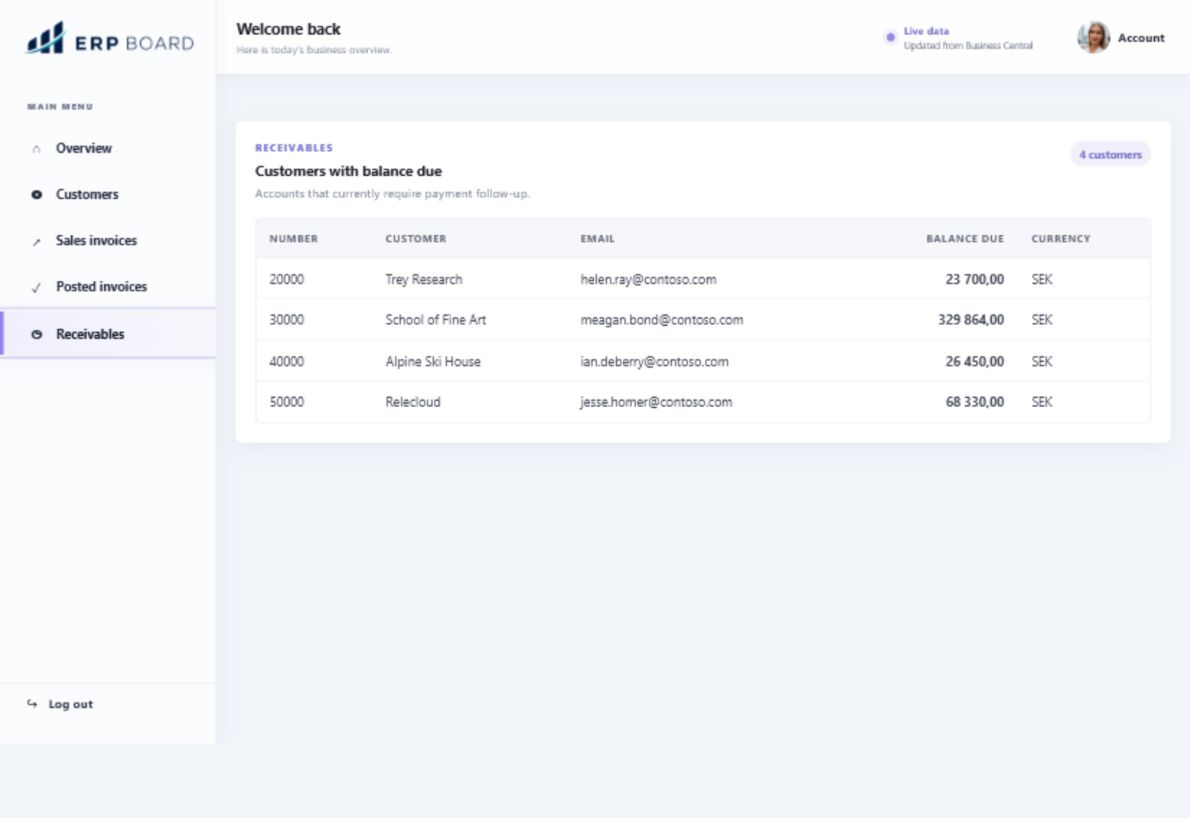
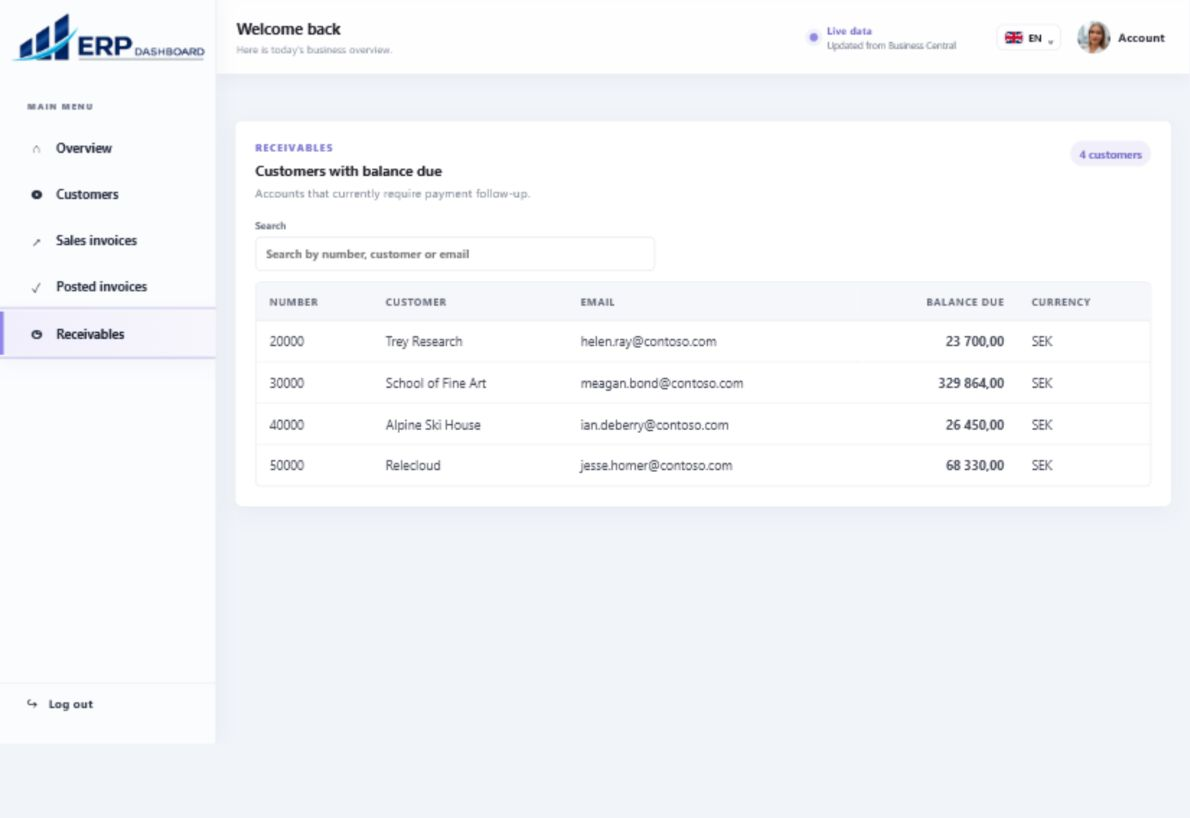
Enhance dashboard details and refresh screenshots

diff --git a/frontend/src/components/KpiSections.jsx b/frontend/src/components/KpiSections.jsx
@@ -17,6 +17,21 @@ function KpiCard({ label, value, tone = 'default', onClick, expanded }) {
 function DataBreakdown({ title, description, records, error, onRetry, type }) {
   const { t } = useLanguage()
   const breakdownRef = useRef(null)
+  const [searchTerm, setSearchTerm] = useState('')
+  const [recordFilter, setRecordFilter] = useState('all')
+
+  const normalizedSearch = searchTerm.trim().toLowerCase()
+  const supportsInvoiceStatus = type === 'invoice' && records?.some((record) => record.remainingAmount != null)
+  const filteredRecords = records?.filter((record) => {
+    const matchesSearch = !normalizedSearch || [record.number, record.displayName, record.customerName, record.email]
+      .some((value) => value?.toLowerCase().includes(normalizedSearch))
+    const matchesFilter = recordFilter === 'all'
+      || (recordFilter === 'with-balance' && record.balanceDue > 0)
+      || (recordFilter === 'without-balance' && record.balanceDue <= 0)
+      || (recordFilter === 'open' && record.remainingAmount > 0)
+      || (recordFilter === 'closed' && record.remainingAmount <= 0)
+    return matchesSearch && matchesFilter
+  }) ?? records
 
   useEffect(() => {
     if (typeof breakdownRef.current?.scrollIntoView === 'function') {
@@ -24,25 +39,41 @@ function DataBreakdown({ title, description, records, error, onRetry, type }) {
     }
   }, [])
 
+  useEffect(() => {
+    setSearchTerm('')
+    setRecordFilter('all')
+  }, [title])
+
   return (
     <div className="kpi-breakdown" ref={breakdownRef}>
       <div className="kpi-breakdown-heading">
         <div><h3>{title}</h3><p>{description}</p></div>
-        {records && <span className="count-badge">{records.length} {t('records')}</span>}
+        {records && <span className="count-badge">{filteredRecords.length} / {records.length} {t('records')}</span>}
       </div>
       {error ? <LoadError message={error} onRetry={onRetry} /> : records === null ? (
         <p className="loading-copy">{t('Loading details...')}</p>
       ) : records.length === 0 ? <div className="empty-state"><strong>{t('No matching records')}</strong></div> : (
-        <div className="table-wrapper" role="region" aria-label={title} tabIndex="0">
+        <>
+          <div className="table-tools">
+            <label className="table-search"><span>{t('Search')}</span><input type="search" value={searchTerm} onChange={(event) => setSearchTerm(event.target.value)} placeholder={t('Search by number, customer or email')} /></label>
+            {(type === 'customer' || supportsInvoiceStatus) && (
+              <label className="table-filter"><span>{t('Filter')}</span><select value={recordFilter} onChange={(event) => setRecordFilter(event.target.value)}>
+                <option value="all">{t('All records')}</option>
+                {type === 'customer' ? <><option value="with-balance">{t('With balance due')}</option><option value="without-balance">{t('Without balance due')}</option></> : <><option value="open">{t('Open')}</option><option value="closed">{t('Closed')}</option></>}
+              </select></label>
+            )}
+          </div>
+          {filteredRecords.length === 0 ? <div className="empty-state"><strong>{t('No matching records')}</strong><span>{t('Try changing your search or filter.')}</span></div> : <div className="table-wrapper" role="region" aria-label={title} tabIndex="0">
           <table className="customer-table kpi-detail-table">
             <thead><tr>{type === 'customer' ? <><th>{t('Number')}</th><th>{t('Customer')}</th><th>{t('Email')}</th><th className="amount-cell">{t('Balance due')}</th><th className="amount-cell">{t('Credit limit')}</th></> : <><th>{t('Number')}</th><th>{t('Customer')}</th><th>{t('Date')}</th><th>{t('Due date')}</th><th className="amount-cell">{t('Remaining')}</th><th className="amount-cell">{t('Total')}</th></>}</tr></thead>
-            <tbody>{records.map((record) => type === 'customer' ? (
+            <tbody>{filteredRecords.map((record) => type === 'customer' ? (
               <tr key={record.id}><td>{record.number}</td><td>{record.displayName}</td><td>{record.email || '-'}</td><td className="amount-cell">{amountFormatter.format(record.balanceDue)}</td><td className="amount-cell">{amountFormatter.format(record.creditLimit)}</td></tr>
             ) : (
               <tr key={record.id}><td>{record.number}</td><td>{record.customerName}</td><td>{record.invoiceDate || '-'}</td><td>{record.dueDate || '-'}</td><td className="amount-cell">{record.remainingAmount == null ? '—' : amountFormatter.format(record.remainingAmount)}</td><td className="amount-cell">{amountFormatter.format(record.totalAmountIncludingTax)}</td></tr>
             ))}</tbody>
           </table>
-        </div>
+        </div>}
+        </>
       )}
     </div>
   )

diff --git a/frontend/src/components/CustomerDebtTable.jsx b/frontend/src/components/CustomerDebtTable.jsx
@@ -1,9 +1,21 @@
+import { useState } from 'react'
 import { amountFormatter } from '../formatters.js'
 import LoadError from './LoadError.jsx'
 import { useLanguage } from '../i18n.jsx'
 
 function CustomerDebtTable({ customers, error, onRetry }) {
   const { t } = useLanguage()
+  const [searchTerm, setSearchTerm] = useState('')
+  const [currencyFilter, setCurrencyFilter] = useState('all')
+  const currencies = [...new Set((customers ?? []).map((customer) => customer.currencyCode).filter(Boolean))].sort()
+  const normalizedSearch = searchTerm.trim().toLowerCase()
+  const hasActiveFilters = Boolean(normalizedSearch) || currencyFilter !== 'all'
+  const filteredCustomers = customers?.filter((customer) => {
+    const matchesSearch = !normalizedSearch || [customer.number, customer.displayName, customer.email]
+      .some((value) => value?.toLowerCase().includes(normalizedSearch))
+    const matchesCurrency = currencyFilter === 'all' || customer.currencyCode === currencyFilter
+    return matchesSearch && matchesCurrency
+  }) ?? customers
   return (
     <section className="dashboard-section" id="receivables">
       <div className="section-heading section-heading--table">
@@ -13,7 +25,7 @@ function CustomerDebtTable({ customers, error, onRetry }) {
           <p>{t('Accounts that currently require payment follow-up.')}</p>
         </div>
         {customers !== null && !error && (
-          <span className="count-badge">{customers.length} {t('Customers').toLowerCase()}</span>
+          <span className="count-badge">{hasActiveFilters ? `${filteredCustomers.length} / ${customers.length}` : customers.length} {t('Customers').toLowerCase()}</span>
         )}
       </div>
       {error ? (
@@ -26,7 +38,12 @@ function CustomerDebtTable({ customers, error, onRetry }) {
           <span>{t('No customers have a balance due.')}</span>
         </div>
       ) : (
-        <div
+        <>
+          <div className="table-tools">
+            <label className="table-search"><span>{t('Search')}</span><input type="search" value={searchTerm} onChange={(event) => setSearchTerm(event.target.value)} placeholder={t('Search by number, customer or email')} /></label>
+            {currencies.length > 1 && <label className="table-filter"><span>{t('Currency')}</span><select value={currencyFilter} onChange={(event) => setCurrencyFilter(event.target.value)}><option value="all">{t('All currencies')}</option>{currencies.map((currency) => <option key={currency} value={currency}>{currency}</option>)}</select></label>}
+          </div>
+          {filteredCustomers.length === 0 ? <div className="empty-state"><strong>{t('No matching records')}</strong><span>{t('Try changing your search or filter.')}</span></div> : <div
           className="table-wrapper"
           role="region"
           aria-label={t('Customers with balance due')}
@@ -43,7 +60,7 @@ function CustomerDebtTable({ customers, error, onRetry }) {
               </tr>
             </thead>
             <tbody>
-              {customers.map((customer) => (
+              {filteredCustomers.map((customer) => (
                 <tr key={customer.id}>
                   <td>{customer.number}</td>
                   <td>{customer.displayName}</td>
@@ -54,7 +71,8 @@ function CustomerDebtTable({ customers, error, onRetry }) {
               ))}
             </tbody>
           </table>
-        </div>
+        </div>}
+        </>
       )}
     </section>
   )

diff --git a/frontend/src/App.css b/frontend/src/App.css
@@ -413,7 +413,7 @@
   display: grid;
   place-items: center;
   height: 82px;
-  margin: 0 22px 24px;
+  margin: 0 9px 24px;
   padding: 0;
   border: 0;
   background: transparent;
@@ -985,6 +985,49 @@
   min-width: 880px;
 }
 
+.table-tools {
+  display: flex;
+  align-items: end;
+  gap: 10px;
+  margin-bottom: 12px;
+}
+
+.table-search,
+.table-filter {
+  display: grid;
+  gap: 5px;
+  color: #666b7b;
+  font-size: 0.68rem;
+  font-weight: 750;
+}
+
+.table-search {
+  flex: 1 1 280px;
+  max-width: 440px;
+}
+
+.table-filter {
+  flex: 0 0 190px;
+}
+
+.table-search input,
+.table-filter select {
+  min-height: 38px;
+  padding: 8px 11px;
+  border: 1px solid #dfe1e9;
+  border-radius: 7px;
+  background: #fff;
+  color: #20212a;
+  font: inherit;
+  font-size: 0.8rem;
+}
+
+.table-search input:focus,
+.table-filter select:focus {
+  border-color: #9992df;
+  outline: 3px solid rgba(125, 117, 214, 0.14);
+}
+
 .kpi-card:hover {
   transform: translateY(-2px);
   border-color: var(--card-accent);
@@ -1297,6 +1340,18 @@
 
   .summary-kpis {
     grid-template-columns: 1fr;
+  }
+
+  .table-tools {
+    align-items: stretch;
+    flex-direction: column;
+  }
+
+  .table-search,
+  .table-filter {
+    flex: none;
+    width: 100%;
+    max-width: none;
   }
 
   .error-state {

diff --git a/frontend/src/components/KpiSections.test.jsx b/frontend/src/components/KpiSections.test.jsx
@@ -268,6 +268,16 @@ describe('SalesInvoiceKpiSection', () => {
     expect(within(region).getByText('INV-001')).toBeInTheDocument()
     expect(within(region).getByText('INV-002')).toBeInTheDocument()
     expect(within(region).getByText('INV-003')).toBeInTheDocument()
+
+    await user.type(screen.getByRole('searchbox', { name: 'Search' }), 'INV-002')
+    expect(screen.getByText('1 / 3 records')).toBeInTheDocument()
+    expect(within(region).getByText('INV-002')).toBeInTheDocument()
+    expect(within(region).queryByText('INV-001')).not.toBeInTheDocument()
+
+    await user.clear(screen.getByRole('searchbox', { name: 'Search' }))
+    await user.selectOptions(screen.getByRole('combobox', { name: 'Filter' }), 'open')
+    expect(within(region).getByText('INV-001')).toBeInTheDocument()
+    expect(within(region).queryByText('INV-002')).not.toBeInTheDocument()
   })
 })
 

diff --git a/frontend/src/components/CustomerDebtTable.test.jsx b/frontend/src/components/CustomerDebtTable.test.jsx
@@ -44,7 +44,8 @@ describe('CustomerDebtTable', () => {
     expect(screen.queryByRole('table')).not.toBeInTheDocument()
   })
 
-  it('renders customer balances and fallbacks in an accessible table region', () => {
+  it('renders customer balances and filters them by search', async () => {
+    const user = userEvent.setup()
     const customers = [
       {
         id: 'customer-1',
@@ -94,5 +95,10 @@ describe('CustomerDebtTable', () => {
       amountFormatter.format(75),
       '-',
     ])
+
+    await user.type(screen.getByRole('searchbox', { name: 'Search' }), 'northwind')
+    expect(screen.getByText('1 / 2 customers')).toBeInTheDocument()
+    expect(screen.getByText('Northwind AB')).toBeInTheDocument()
+    expect(screen.queryByText('Contoso AB')).not.toBeInTheDocument()
   })
 })

diff --git a/frontend/src/i18n.jsx b/frontend/src/i18n.jsx
@@ -48,6 +48,10 @@ const swedish = {
   'Key business indicators': 'Viktiga affärsindikatorer', 'Dashboard navigation': 'Dashboardnavigering',
   'Current workspace': 'Aktuell arbetsyta', details: 'detaljer',
   'Open {label} section': 'Öppna avsnittet {label}',
+  Search: 'Sök', Filter: 'Filter', 'Search by number, customer or email': 'Sök på nummer, kund eller e-post',
+  'All records': 'Alla poster', 'With balance due': 'Med utestående saldo', 'Without balance due': 'Utan utestående saldo',
+  Open: 'Öppna', Closed: 'Stängda', 'All currencies': 'Alla valutor',
+  'Try changing your search or filter.': 'Försök ändra sökningen eller filtret.',
 }
 
 const interpolate = (text, variables = {}) =>
